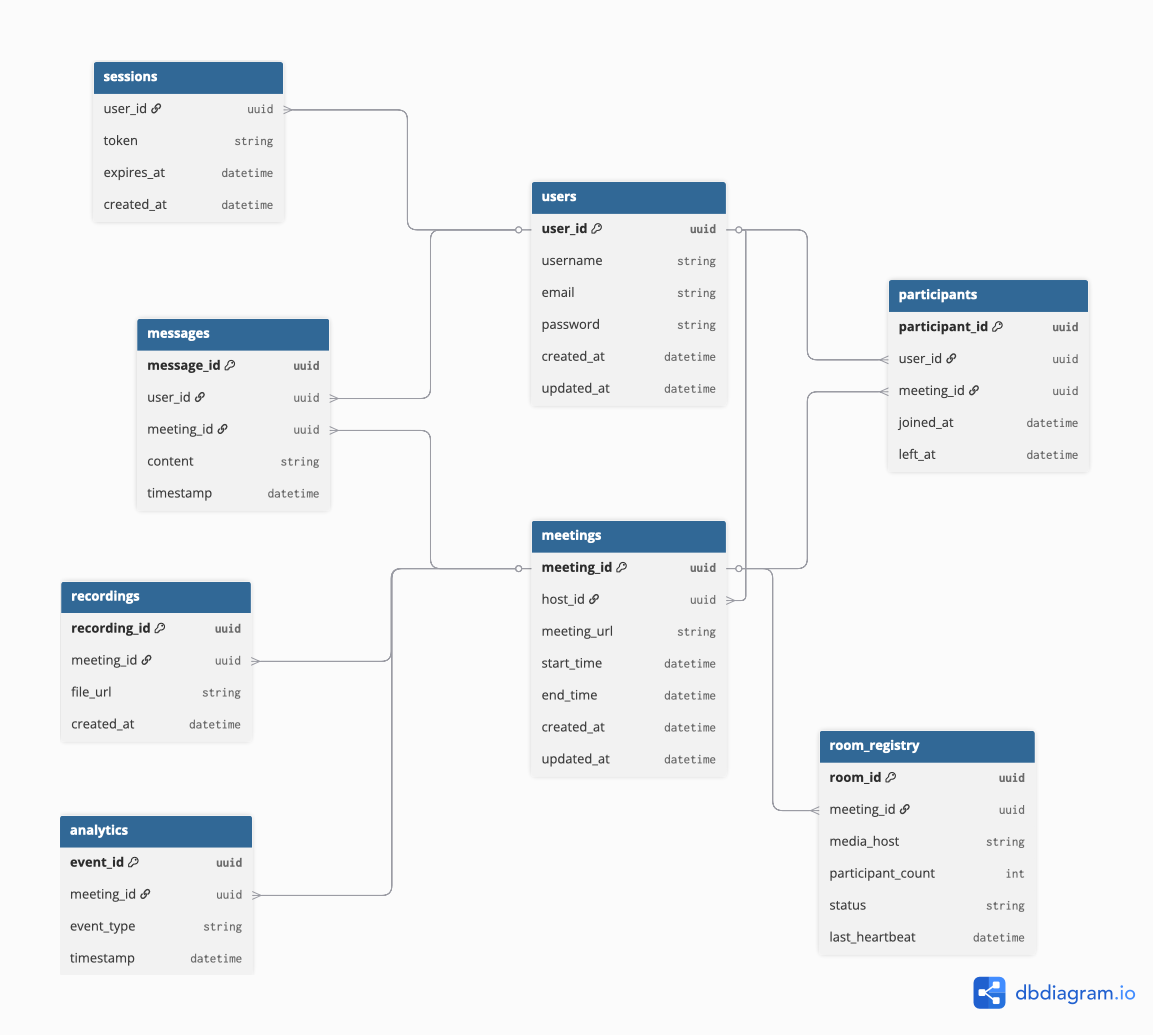
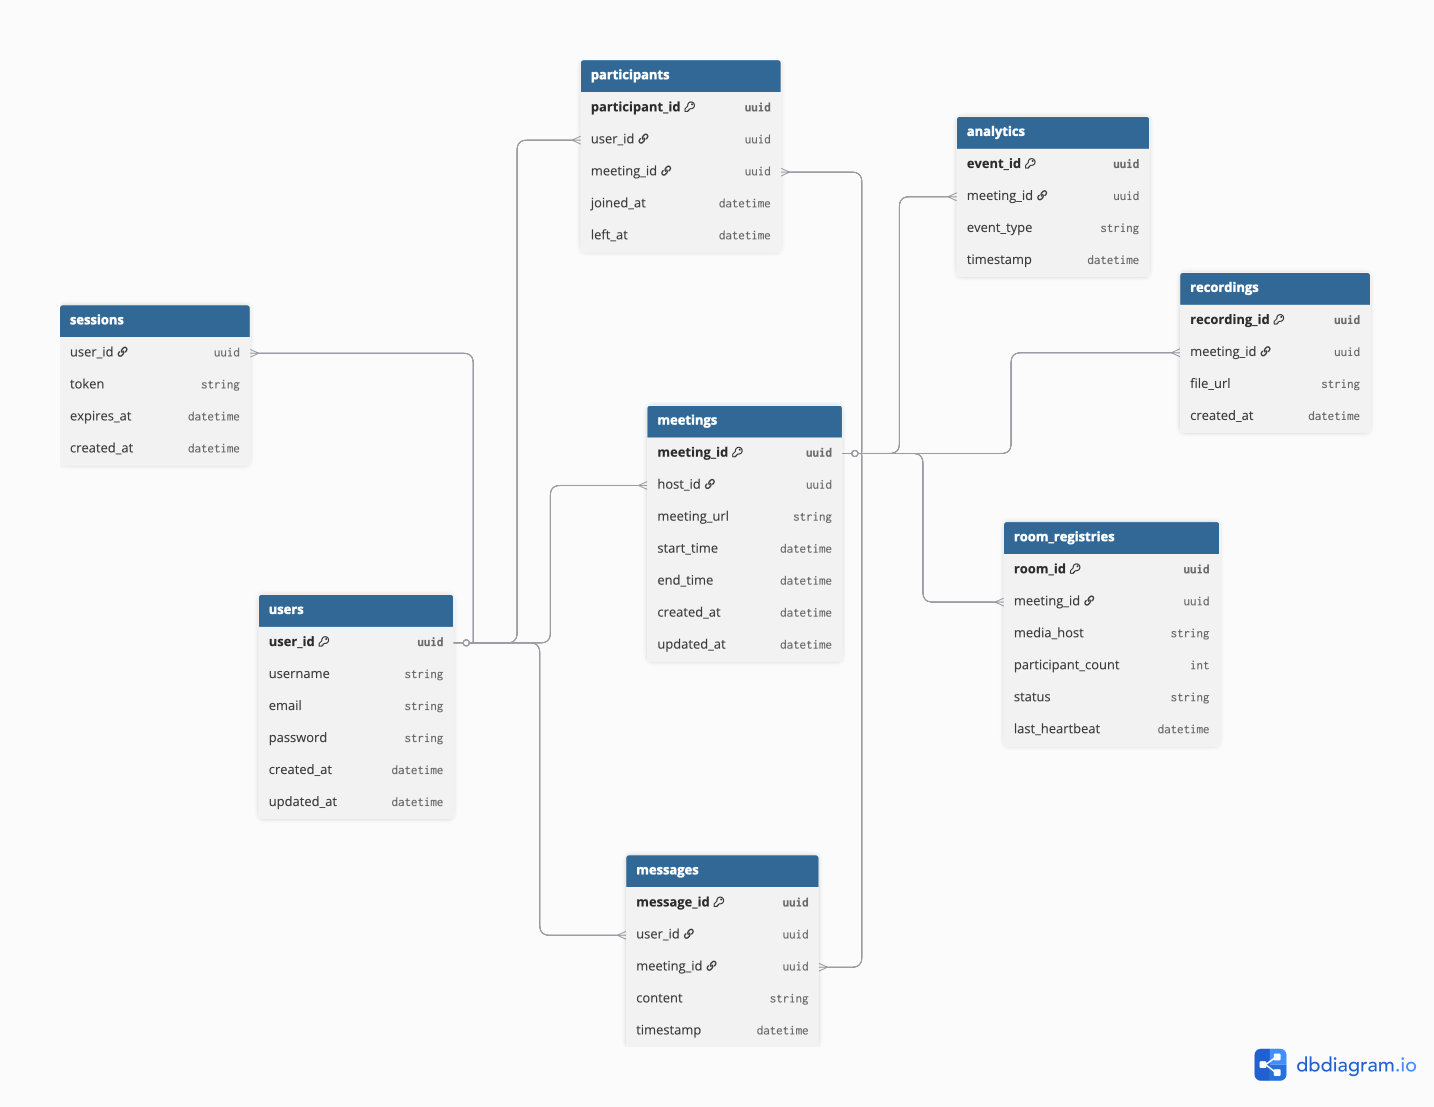
hw6

diff --git a/README.md b/README.md
@@ -19,6 +19,8 @@
 
 * [**6. Физическая схема БД**](#6-физическая-схема-бд)
 
+* [**7. Алгоритмы**](#7-алгоритмы)
+
 ## 1. Тема, аудитория, функционал
 
 ### Тема
@@ -65,7 +67,7 @@ Zoom - сервис для видеоконференций
     * Размер аватарки за 400×400 пикселей в формате jpeg
     * Имя пользователя максимум может содержать 20 символов UTF-8
     * Информация о пользователе может содержать максимум 500 символов UTF-8.
-    * 1 час видео в формате HD занимает примерно 1 Гб (TODO: оценить по лекциям в zoom)
+    * 1 час видео в формате HD занимает примерно 1 Гб
     * Пользователь входит  раз в месяц
     * 1 пользователь отправляет 0.5 сообщений за конференцию
     * В 1 конференции чат содержит в среднем 150 символов
@@ -289,6 +291,7 @@ $$\frac{227701 \cdot 8}{86400} =  21 \space Гбит/с$$
 Применяется DNS
 
 #### Схема DNS-балансировки
+1. Управляющие
 
 ```mermaid
 flowchart LR
@@ -296,15 +299,54 @@ flowchart LR
     D -->|по региону / нагрузке| R1[Регион 1]
     D -->|по региону / нагрузке| R2[Регион 2]
     D -->|резерв| R3[Регион 3]
-    
+
+    %% Регион 1
     subgraph "Регион 1"
-        R1 --> A1[ingress]
+        R1 --> LB1[L7 Балансировщик]
+        LB1 --> P1[БД]
     end
+
+    %% Регион 2
     subgraph "Регион 2"
-        R2 --> A2[ingress]
+        R2 --> LB2[L7 Балансировщик]
+        LB2 --> P2[БД]
     end
+
+    %% Регион 3 (Failover)
     subgraph "Регион 3 (Failover)"
-        R3 --> A3[ingress]
+        R3 --> LB3[L7 Балансировщик]
+        LB3 --> P3[БД]
+    end
+```
+
+2. Медиа хосты
+
+```mermaid
+flowchart LR
+    U[Пользователь] --> D[GeoDNS]
+    D -->|по региону / нагрузке| R1[Регион 1]
+    D -->|по региону / нагрузке| R2[Регион 2]
+    D -->|резерв| R3[Регион 3]
+
+    %% Регион 1
+    subgraph "Регион 1"
+        R1 --> In1[ingress]
+        In1 --> CP1[Control Plane: Auth / Metadata / Scheduling]
+        In1 --> Media1[Media Requests → Media Servers]
+    end
+
+    %% Регион 2
+    subgraph "Регион 2"
+        R2 --> In2[ingress]
+        In2 --> CP2[Control Plane: Auth / Metadata / Scheduling]
+        In2 --> Media2[Media Requests → Media Servers]
+    end
+
+    %% Регион 3 (Failover)
+    subgraph "Регион 3 (Failover)"
+        R3 --> In3[ingress]
+        In3 --> CP3[Control Plane: Auth / Metadata / Scheduling]
+        In3 --> Media3[Media Requests → Media Servers]
     end
 ```
 
@@ -467,25 +509,25 @@ BW_{Gbit} = RPS_{peak} \times 10{,}240\ \text{bytes} \times 8 / 10^9 \approx RPS
 
 | Сущность                                        |                                                                                                                                                                  Формула (байт/строку) |                     Количество (строк) |                                              Итоговый объём |
 | ----------------------------------------------- | -------------------------------------------------------------------------------------------------------------------------------------------------------------------------------------: | -------------------------------------: | ----------------------------------------------------------: |
-| **USERS** (metadata)                            | `16 (uuid - user_id) + 20 (text - username) + 40 (text - email) + 32 (bytea - password hash) + 8 (timestamp - created_at) + 8 (timestamp - updated_at)` = **124 байта / пользователь** |                    `700 000 000` (MAU) | **86.80 Гбайт** |
-| **MEETINGS** (metadata, в день)                 |                                                         `16 (uuid - meeting_id) + 16 (uuid - host_id) + 60 (text - meeting_url) + 8 + 8 + 8 + 8 (timestamps)` = **124 байта / строка** |                     `16 742 770 /день` |                **2.08 Гбайт / день** |
-| **PARTICIPANTS** (history, в день)              |                              `16 (uuid - participant_id) + 16 (uuid - user_id) + 16 (uuid - meeting_id) + 8 (timestamp - joined_at) + 8 (timestamp - left_at)` = **64 байта / строка** |                    `167 427 700 /день` |              **10.72 Гбайт / день** |
-| **MESSAGES** (чат, в день)                      |                                          `16 (uuid - message_id) + 16 (uuid - user_id) + 16 (uuid - meeting_id) + 150 (text - content avg) + 8 (timestamp)` = **206 байт / сообщение** |                     `83 713 850 /день` |              **17.25 Гбайт / день** |
-| **RECORDINGS (metadata, в день)**               |                                                        `16 (uuid - recording_id) + 16 (uuid - meeting_id) + 60 (text - file_url) + 8 (timestamp - created_at)` = **100 байт / строка** |                        `227 701 /день` |                  **22.77 Мбайт / день** |
-| **ANALYTICS** (events, в день)                  |                                                                       `16 (uuid - event_id) + 16 (uuid - meeting_id) + 20 (text - event_type) + 8 (timestamp)` = **60 байт / событие** |                     `83 713 850 /день` |                **5.02 Гбайт / день** |
-| **SESSIONS** (active, Redis)                    |                                                            `16 (uuid - user_id) + 32 (text - token) + 8 (timestamp - expires_at) + 8 (timestamp - created_at)` = **64 байта / сессия** | `600 000 000` (предположение: DAU * 2) |                     **38.40 Гбайт** |
-| **ROOM_REGISTRY** (in-memory, concurrent rooms) |   `16 (uuid - room_id) + 16 (uuid - meeting_id) + 50 (text - media_host) + 4 (int - participant_count) + 10 (text - status) + 8 (timestamp - last_heartbeat)` = **104 байта / запись** |   `~627 854` (оценка concurrent rooms) |                        **65.30 Мбайт** |
+| **USERS**                             | `16 (uuid - user_id) + 20 (text - username) + 40 (text - email) + 32 (bytea - password hash) + 8 (timestamp - created_at) + 8 (timestamp - updated_at)` = **124 байта / пользователь** |                    `700 000 000` (MAU) | **86.80 Гбайт** |
+| **MEETINGS**                  |                                                         `16 (uuid - meeting_id) + 16 (uuid - host_id) + 60 (text - meeting_url) + 8 + 8 + 8 + 8 (timestamps)` = **124 байта / строка** |                     `16 742 770 /день` |  **3.80 ТБ**          (2.08 Гбайт / день)  |
+| **PARTICIPANTS**               |                              `16 (uuid - participant_id) + 16 (uuid - user_id) + 16 (uuid - meeting_id) + 8 (timestamp - joined_at) + 8 (timestamp - left_at)` = **64 байта / строка** |                    `167 427 700 /день` |             **19.56 ТБ** (10.72 Гбайт / день) |
+| **MESSAGES**                       |                                          `16 (uuid - message_id) + 16 (uuid - user_id) + 16 (uuid - meeting_id) + 150 (text - content avg) + 8 (timestamp)` = **206 байт / сообщение** |                     `83 713 850 /день` |              **31.51 ТБ**(17.25 Гбайт / день) |
+| **RECORDINGS **               |                                                        `16 (uuid - recording_id) + 16 (uuid - meeting_id) + 60 (text - file_url) + 8 (timestamp - created_at)` = **100 байт / строка** |                        `227 701 /день` |                 **41.5 ГБ** (22.77 Мбайт / день) |
+| **ANALYTICS**                   |                                                                       `16 (uuid - event_id) + 16 (uuid - meeting_id) + 20 (text - event_type) + 8 (timestamp)` = **60 байт / событие** |                     `83 713 850 /день` |                **9.16 ТБ** (5.02 Гбайт / день) |
+| **SESSIONS**                     |                                                            `16 (uuid - user_id) + 32 (text - token) + 8 (timestamp - expires_at) + 8 (timestamp - created_at)` = **64 байта / сессия** | `600 000 000` (предположение: DAU * 2) |                     **38.40 Гбайт** |
+| **ROOM_REGISTRIES**  |   `16 (uuid - room_id) + 16 (uuid - meeting_id) + 50 (text - media_host) + 4 (int - participant_count) + 10 (text - status) + 8 (timestamp - last_heartbeat)` = **104 байта / запись** |   `~627 854` (оценка concurrent rooms) |                        **65.30 Мбайт** |
 
 
 ### RPS / QPS
-| Действие / таблица                 |                                     Avg W/s |              Peak W/s |
-| ---------------------------------- | ------------------------------------------: | --------------------: |
-| Создание **MEETINGS**              |    `16 742 770 / 86 400 ≈ 193.78 записей/с` |   `~581.35 записей/с` |
-| Join → **PARTICIPANTS** (write)    | `167 427 700 / 86 400 ≈ 1 937.82 записей/с` | `~5 813.46 записей/с` |
-| Chat → **MESSAGES** (write)        |    `83 713 850 / 86 400 ≈ 968.91 записей/с` | `~2 906.73 записей/с` |
-| Запись metadata → **RECORDINGS**   |         `227 701 / 86 400 ≈ 2.64 записей/с` |     `~7.91 записей/с` |
-| Analytics → **ANALYTICS** (events) |    `83 713 850 / 86 400 ≈ 968.91 записей/с` | `~2 906.73 записей/с` |
-
+| Действие / таблица                 |  Avg W/s | Peak W/s |
+| ---------------------------------- | -------: | -------: |
+| Создание **MEETINGS**              |   193.78 |   581.35 |
+| Join → **PARTICIPANTS** Чтение     | 1 937.82 | 5 813.46 |
+| Join → **PARTICIPANTS** Чтение     | 1 937.82 | 5 813.46 |
+| Chat → **MESSAGES** Запись         |   968.91 | 2 906.73 |
+| Запись metadata → **RECORDINGS**   |     2.64 |     7.91 |
+| Analytics → **ANALYTICS**  events  |   968.91 | 2 906.73 |
 
 ### Резюме
 
@@ -498,7 +540,7 @@ BW_{Gbit} = RPS_{peak} \times 10{,}240\ \text{bytes} \times 8 / 10^9 \approx RPS
 | **RECORDINGS**       |  **22.77 Мбайт / день** |
 | **ANALYTICS**           |   **5.02 Гбайт / день** |
 | **SESSIONS**             |         **38.40 Гбайт** |
-| **ROOM_REGISTRY**  |         **65.30 Мбайт** |
+| **ROOM_REGISTRIES**  |         **65.30 Мбайт** |
 
 ### Описание сущностей базы данных
 
@@ -517,15 +559,119 @@ BW_{Gbit} = RPS_{peak} \times 10{,}240\ \text{bytes} \times 8 / 10^9 \approx RPS
 | ----------------- | --------------- | 
 | **USERS**         | **strong**      |
 | **MEETINGS**      | **strong**      |
-| **PARTICIPANTS**  | ?    |
-| **MESSAGES**      | ?    | 
-| **RECORDINGS**    | **strong**      | 
+| **PARTICIPANTS**  | **eventual**    |
+| **MESSAGES**      | **eventual**    | 
+| **RECORDINGS**    | **eventual**    | 
 | **ANALYTICS**     | **eventual**    |
 | **SESSIONS**      | **strong**      |
-| **ROOM_REGISTRY** | **strong** |
+| **ROOM_REGISTRIES** | **strong**      |
 
 
 ## 6. Физическая схема БД
+
+![db_diagram](pics/db_diagram.png)
+
+| Сущность            | Хранилище                   | Обоснование выбора                                                                                                                                                         |
+| ------------------- | --------------------------- | -------------------------------------------------------------------------------------------------------------------------------------------------------------------------- |
+| **USERS**           | PostgreSQL                  | Требуется строгая согласованность, транзакции и поддержка внешних ключей. Основная нагрузка — чтение профилей.              |
+| **MEETINGS**        | PostgreSQL                  | Данные встреч требуют strong consistency. Диапазонное шардирование по дате позволяет архивировать старые встречи.                  |
+| **RECORDINGS** | Aerospike | Метаданные о записях (ссылка на файл, идентификатор встречи) не требуют мгновенной строгой согласованности, поэтому используется eventual consistency для ускорения доступа. Основные файлы хранятся в объектном хранилище (S3).  |
+| **PARTICIPANTS**    | Aerospike                   | Тысячи записей в секунду требуют низкой задержки и масштабируемости. Aerospike обеспечивает горизонтальное масштабирование и высокую доступность. |
+| **MESSAGES**        | Aerospike                   | Высокая скорость вставок и чтений, масштабируемость по chat_id.                                              |
+| **ANALYTICS**       | Kafka → ClickHouse | Kafka обеспечивает доставку событий, ClickHouse — быстрые запросы для дашбордов и KPI.  |
+| **SESSIONS**        | Redis                       | Высокопроизводительное in-memory хранилище для хранения токенов с TTL. Redis Sentinel обеспечивает failover.                                     |
+| **ROOM_REGISTRIES** | Etcd                        | Контролируемый реестр для маршрутизации медиапотоков. Strong consistency критична, Raft обеспечивает согласованность между нодами.                                         |
+
+### Индексирование
+
+- **PostgreSQL (USERS, MEETINGS, RECORDINGS)**
+  - Primary key (по умолчанию).
+  - Частые фильтры/поиски:
+    - `email` (UNIQUE).
+    - `created_at`, `start_time` — `brin` для очень больших таблиц с временной корреляцией.
+  - Составные индексы:
+    - `(meeting_id, created_at)` для быстрых выборок событий по встрече и времени.
+
+- **Aerospike (MESSAGES, PARTICIPANTS, RECORDINGS)**
+  - Primary key (по умолчанию).
+  - Secondary index (SI) для поиска по `user_id`, `timestamp` (если требуется range-lookup по времени).
+
+### Шардирование
+
+- **PostgreSQL**
+  - Вертикальное разделение: критичные транзакционные таблицы в PG.
+  - Горизонтальное (при необходимости): `user_id` / `meeting_id` — хэширование; или Citus для автоматического распределения.
+  - Временные таблицы: partition by `created_at` (range) для MEETINGS, упрощает архивирование.
+
+- **Redis**
+  - Redis Cluster — hash slots (16384 slots), распределяются между нодами.
+  - Для сессий — consistent hashing по `user_id` или token.
+
+- **ClickHouse**
+  - Partition by `event_date`, распределение по `meeting_id` (shard key) через `Distributed` таблицы.
+
+- **Kafka**
+  - Партиционирование по `meeting_id`/`tenant_id` для порядка сообщений внутри пары (partition).
+
+
+### Реплицирование
+
+- **PostgreSQL**
+  - Primary → replica (streaming replication). 1 master, 4 реплики.
+
+- **Redis**
+  - Master + replicas (Redis Sentinel).
+
+- **ClickHouse**
+  - `ReplicatedMergeTree` — репликация на уровне партиций/таблиц;
+
+- **Kafka**
+  - Репликация партиций между брокерами; `replication.factor >= 2`
+  
+- **Etcd**
+  - Raft-репликация; 11 (нечетное число) реплик всего, в каждый медиахост по 1.
+
+### Схема резервного копирования
+
+- **PostgreSQL**
+  - Полные бэкапы: `pg_basebackup` (ежедневно).
+  - WAL-архивирование для PITR (Point-In-Time Recovery) — хранение WAL в S3.
+  - Retention: ежедневные full (14d), инкрементальные + WAL (7–30d), ежемесячные cold snapshots.
+  - Регулярные тестовые восстановления (smoke restore).
+
+- **Aerospike**
+  - Periodic snapshots (cold backup) + экспорт namespace в S3; обеспечивать согласованные снимки всех нод.
+  - План восстановления: spin-up new cluster, restore snapshots, wait for cluster re-balance.
+
+- **Redis**
+  - RDB snapshots (каждые N минут/изменений) или AOF (если нужна долговечность).
+  - Для сессий — допускается потеря кратковременных данных; комбинировать RDB + реплики.
+  - Сохранять резервные копии на S3.
+
+- **ClickHouse**
+  - Backup партиций в S3 (`BACKUP` / `TABLE ... TO DISK`), реплицированные реплики упрощают восстановление.
+
+- **Kafka**
+  - репликация партиций;
+
+- **Etcd**
+  - Регулярные etcd snapshots (`etcdctl snapshot save`) и хранение в S3; тестовые restore на staging.
+
+- **S3 / Object storage**
+  - Versioning + Lifecycle rules.
+
+### Мультиплексирование подключений
+
+- **PostgreSQL**
+  - Использовать пуллеры: **PgBouncer** (transaction pooling).
+
+- **Redis**
+  - Клиентский пул соединений `go-redis`, reuse connections.
+
+- **Kafka**
+  - Producers/Consumers используют batching, compression и async send для throughput.
+
+## 7. Алгоритмы
 
 TODO
 
